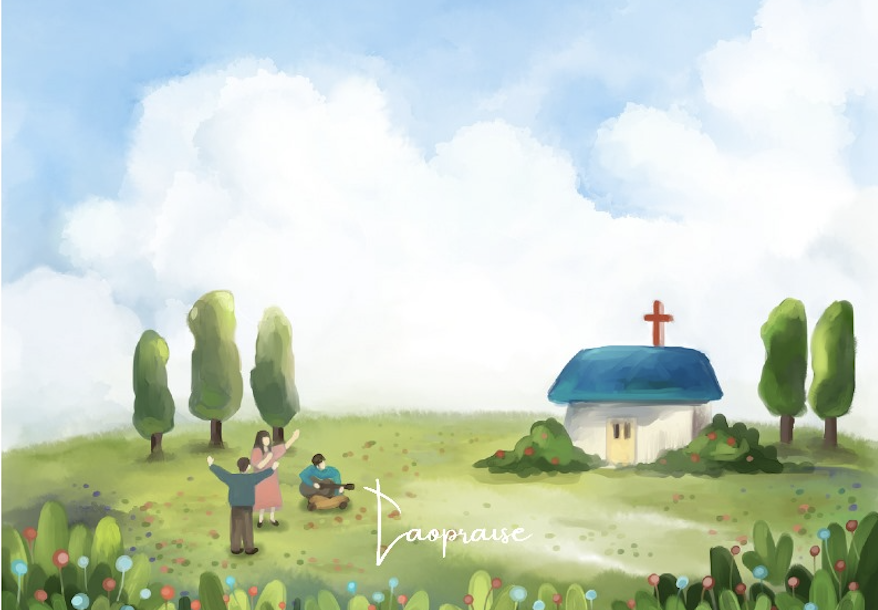
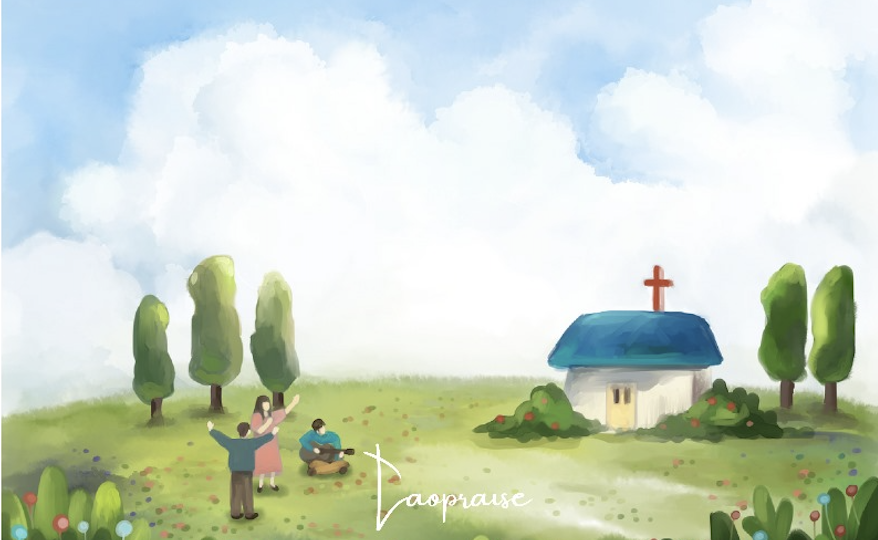
feat: Morning Glory hero — match mockup exactly, fix language switcher theme
- Hero: 100vh + object-cover center 65%, overlay from mockup
- Content: clamp fonts, exact padding/gap from mockup
- Search: frosted glass, blur(16px), shadow from mockup
- Categories: border #E0EEFA, 34px icons, shadow from mockup
- LanguageSwitcher: frosted white pill + sky-blue gradient active state
- Remove scroll indicator
- Crop watermark from Background.jpg

diff --git a/app/[locale]/page.tsx b/app/[locale]/page.tsx
@@ -10,12 +10,12 @@ import type { Song, Category } from '@/lib/supabase/types'
 type SongRow = Song & { categories: Category | null }
 
 const CAT_ITEMS = [
-  { grad: 'from-amber-400 to-orange-500',   shadow: 'shadow-orange-400/25', icon: '🙏' },
-  { grad: 'from-emerald-400 to-teal-500',   shadow: 'shadow-teal-400/25',   icon: '🎶' },
-  { grad: 'from-sky-400 to-blue-500',       shadow: 'shadow-blue-400/25',   icon: '⭐' },
-  { grad: 'from-violet-400 to-purple-600',  shadow: 'shadow-purple-400/25', icon: '💧' },
-  { grad: 'from-rose-400 to-pink-600',      shadow: 'shadow-rose-400/25',   icon: '🕊️' },
-  { grad: 'from-lime-400 to-green-500',     shadow: 'shadow-green-400/25',  icon: '🌿' },
+  { grad: 'from-[#F59E0B] to-[#F97316]', shadow: '0 2px 8px rgba(249,115,22,0.25)', icon: '🙏' },
+  { grad: 'from-[#34D399] to-[#0D9488]', shadow: '0 2px 8px rgba(13,148,136,0.25)',  icon: '🎶' },
+  { grad: 'from-[#38BDF8] to-[#3B82F6]', shadow: '0 2px 8px rgba(59,130,246,0.25)', icon: '⭐' },
+  { grad: 'from-[#A78BFA] to-[#7C3AED]', shadow: '0 2px 8px rgba(124,58,237,0.25)', icon: '💧' },
+  { grad: 'from-[#FB7185] to-[#E11D48]', shadow: '0 2px 8px rgba(225,29,72,0.25)',  icon: '🕊️' },
+  { grad: 'from-[#34D399] to-[#16A34A]', shadow: '0 2px 8px rgba(22,163,74,0.25)',  icon: '🌿' },
 ]
 
 export default async function HomePage({
@@ -43,8 +43,7 @@ export default async function HomePage({
     )
   }
 
-  const { data: songs } = await songsQuery
-
+  const { data: songs }      = await songsQuery
   const { data: categories } = await supabase
     .from('categories')
     .select('*, songs(count)')
@@ -54,34 +53,35 @@ export default async function HomePage({
   return (
     <div className="min-h-screen bg-[#F8FAFB]">
 
-      {/* ── HERO: Morning Glory ── */}
-      <div className="relative h-screen overflow-hidden">
+      {/* ── HERO ── */}
+      <div className="relative overflow-hidden">
         <Image
           src="/images/Background.jpg"
           alt="Laopraise"
-          fill
+          width={878}
+          height={540}
           sizes="100vw"
-          className="object-cover"
-          style={{ objectPosition: 'center 65%' }}
+          className="w-full h-auto block"
           priority
         />
-        <div className="absolute inset-0" style={{background:'linear-gradient(to bottom,rgba(255,255,255,0.08) 0%,transparent 20%,transparent 87%,rgba(248,252,255,0.55) 94%,#F8FAFB 100%)'}} />
+        <div className="absolute inset-0" style={{ background: 'linear-gradient(to bottom,rgba(255,255,255,0.08) 0%,transparent 20%,transparent 87%,rgba(248,252,255,0.55) 94%,#F8FAFB 100%)' }} />
 
         {/* NAV */}
         <nav className="absolute inset-x-0 top-0 z-20 flex items-center justify-between px-5 py-4">
           <div className="flex items-center gap-2.5">
-            <div className="w-10 h-10 rounded-xl bg-gradient-to-br from-sky-400 to-blue-500 flex items-center justify-center shadow-lg shadow-sky-400/35">
-              <span className="text-white text-lg">🎵</span>
+            <div className="w-[38px] h-[38px] rounded-xl bg-gradient-to-br from-[#38BDF8] to-[#0EA5E9] flex items-center justify-center text-[17px]" style={{ boxShadow: '0 2px 12px rgba(14,165,233,0.35)' }}>
+              🎵
             </div>
-            <span className="font-bold text-sky-950 text-lg tracking-tight" style={{ textShadow: '0 1px 6px rgba(255,255,255,0.9)' }}>
+            <span className="font-bold text-[#0F2845] text-[18px]" style={{ fontFamily: 'var(--font-noto-lao), sans-serif', textShadow: '0 1px 6px rgba(255,255,255,0.8)' }}>
               Laopraise
             </span>
           </div>
-          <div className="flex items-center gap-3">
+          <div className="flex items-center gap-2.5">
             <LanguageSwitcher currentLocale={locale} />
             <Link
               href={`/${locale}/auth/login`}
-              className="px-4 py-2 rounded-2xl bg-gradient-to-r from-sky-400 to-blue-500 text-white text-sm font-semibold shadow-md shadow-sky-400/30 hover:shadow-sky-400/50 transition-shadow"
+              className="px-[18px] py-[9px] rounded-[20px] bg-gradient-to-r from-[#38BDF8] to-[#0EA5E9] text-white text-[13px] font-semibold"
+              style={{ boxShadow: '0 2px 10px rgba(14,165,233,0.3)' }}
             >
               ເຂົ້າສູ່ລະບົບ
             </Link>
@@ -89,104 +89,97 @@ export default async function HomePage({
         </nav>
 
         {/* CENTER CONTENT */}
-        <div className="absolute inset-0 flex flex-col items-center justify-center px-5 text-center gap-6 pb-16">
-          <div className="space-y-3">
-            <p className="text-xs tracking-[0.18em] text-sky-500 font-semibold uppercase">
+        <div className="absolute inset-0 flex flex-col items-center justify-center text-center px-6" style={{ paddingTop: 70, paddingBottom: 90, gap: 22 }}>
+          <div className="flex flex-col" style={{ gap: 10 }}>
+            <p style={{ fontSize: 11, letterSpacing: '0.18em', color: '#0EA5E9', fontFamily: 'sans-serif', textTransform: 'uppercase', fontWeight: 600 }}>
               Gospel Song Library
             </p>
-            <h1
-              className="text-4xl sm:text-5xl font-bold text-sky-950 tracking-tight leading-tight"
-              style={{ fontFamily: 'var(--font-noto-lao), sans-serif', textShadow: '0 2px 12px rgba(255,255,255,0.9)' }}
-            >
+            <h1 style={{ fontFamily: 'var(--font-noto-lao), sans-serif', fontSize: 'clamp(30px,6vw,52px)', fontWeight: 700, color: '#0F2845', margin: 0, letterSpacing: '-0.5px', lineHeight: 1.1, textShadow: '0 2px 12px rgba(255,255,255,0.9)' }}>
               {t('hero_title')}
             </h1>
-            <p className="text-sky-900/50 text-sm sm:text-base italic max-w-xs mx-auto">
-              &ldquo;I will sing of you among the peoples.&rdquo; — Ps 108:3
+            <p style={{ color: 'rgba(15,40,69,0.55)', fontSize: 'clamp(13px,2vw,16px)', margin: 0, fontStyle: 'italic' }}>
+              &ldquo;I will sing of you among the peoples.&rdquo; &mdash; Ps 108:3
             </p>
           </div>
 
           {/* Search */}
-          <form method="GET" className="w-full max-w-md">
-            <div className="relative">
-              <span className="absolute left-5 top-1/2 -translate-y-1/2 text-sky-300 text-base pointer-events-none">🔍</span>
-              <input
-                name="q"
-                defaultValue={query}
-                placeholder={t('search_placeholder')}
-                className="w-full pl-12 pr-5 py-4 rounded-3xl bg-white/82 backdrop-blur-xl border-[1.5px] border-sky-200/70 text-sky-950 placeholder:text-sky-400/60 text-sm shadow-xl shadow-sky-200/40 focus:outline-none focus:ring-2 focus:ring-sky-400/30 focus:border-sky-400"
-              />
-            </div>
+          <form method="GET" style={{ position: 'relative', width: '100%', maxWidth: 460 }}>
+            <span style={{ position: 'absolute', left: 18, top: '50%', transform: 'translateY(-50%)', color: '#93C5FD', fontSize: 16, pointerEvents: 'none' }}>🔍</span>
+            <input
+              name="q"
+              defaultValue={query}
+              placeholder={t('search_placeholder')}
+              style={{ width: '100%', padding: '16px 20px 16px 50px', borderRadius: 28, border: '1.5px solid rgba(186,214,232,0.7)', background: 'rgba(255,255,255,0.82)', backdropFilter: 'blur(16px)', fontSize: 14, outline: 'none', fontFamily: 'var(--font-noto-lao), sans-serif', color: '#0F2845', boxSizing: 'border-box', boxShadow: '0 8px 32px rgba(14,165,233,0.12),0 2px 8px rgba(0,0,0,0.04)' }}
+            />
           </form>
         </div>
 
-        {/* Scroll indicator */}
-        <div className="absolute bottom-6 inset-x-0 flex justify-center animate-bounce">
-          <div className="w-5 h-8 rounded-full border-2 border-sky-400/35 flex items-start justify-center pt-1.5">
-            <div className="w-1 h-2.5 rounded-full bg-sky-400/45" />
-          </div>
-        </div>
       </div>
 
       {/* ── CONTENT ── */}
-      <div className="max-w-2xl mx-auto px-4 py-10 space-y-10">
+      <div style={{ background: '#F8FAFB', minHeight: '60vh' }}>
+        <div className="mx-auto px-5" style={{ maxWidth: 720, paddingTop: 32, paddingBottom: 80 }}>
 
-        {/* Categories */}
-        {!query && categories && categories.length > 0 && (
-          <section>
-            <div className="flex items-center justify-between mb-4">
-              <h2 className="text-base font-bold text-sky-950">{t('section_categories')}</h2>
-              <Link href={`/${locale}/categories`} className="text-sm text-sky-500 font-semibold hover:text-sky-700">
-                {t('see_all')} →
-              </Link>
-            </div>
-            <div className="flex gap-3 overflow-x-auto pb-2 -mx-4 px-4" style={{ scrollbarWidth: 'none' }}>
-              {categories.map((cat, i) => {
-                const item = CAT_ITEMS[i % CAT_ITEMS.length]
-                return (
-                  <Link
-                    key={cat.id}
-                    href={`/${locale}/categories?cat=${cat.id}`}
-                    className="flex-shrink-0 rounded-2xl p-4 bg-white border-[1.5px] border-sky-100 min-w-[130px] hover:border-sky-300 hover:shadow-lg hover:shadow-sky-200/40 transition-all active:scale-95"
-                  >
-                    <div className={`w-8 h-8 rounded-xl bg-gradient-to-br ${item.grad} flex items-center justify-center text-sm mb-3 shadow-md ${item.shadow}`}>
-                      {item.icon}
-                    </div>
-                    <p className="font-semibold text-sky-950 text-sm leading-snug">
-                      {(cat.name as Record<string, string>)[locale] || (cat.name as Record<string, string>)['lo']}
-                    </p>
-                    <p className="text-sky-400 text-xs mt-1">
-                      {(cat as { songs?: { count: number }[] }).songs?.[0]?.count ?? 0} ເພງ
-                    </p>
-                  </Link>
-                )
-              })}
-            </div>
-          </section>
-        )}
-
-        {/* Songs */}
-        <section>
-          <h2 className="text-base font-bold text-sky-950 mb-4">
-            {query ? `🔍 "${query}"` : t('section_latest')}
-          </h2>
-          {songs && songs.length > 0 ? (
-            <div className="flex flex-col gap-2.5">
-              {songs.map(song => (
-                <SongCard key={song.id} song={song as unknown as SongRow} locale={locale} />
-              ))}
-            </div>
-          ) : (
-            <div className="text-center py-16">
-              <p className="text-4xl mb-3">🎵</p>
-              <p className="text-sky-400 text-sm">
-                {query ? 'ບໍ່ພົບເພງ / Song not found' : 'ຍັງບໍ່ມີເພງ'}
-              </p>
-            </div>
+          {/* Categories */}
+          {!query && categories && categories.length > 0 && (
+            <section style={{ marginBottom: 36 }}>
+              <div className="flex items-center justify-between" style={{ marginBottom: 16 }}>
+                <h2 style={{ fontFamily: 'var(--font-noto-lao), sans-serif', fontSize: 16, fontWeight: 700, color: '#0F2845', margin: 0 }}>
+                  {t('section_categories')}
+                </h2>
+                <Link href={`/${locale}/categories`} style={{ fontSize: 13, color: '#0EA5E9', fontWeight: 600, fontFamily: 'var(--font-noto-lao), sans-serif', textDecoration: 'none' }}>
+                  {t('see_all')} →
+                </Link>
+              </div>
+              <div className="flex overflow-x-auto pb-1.5 -mx-5 px-5" style={{ gap: 10, scrollbarWidth: 'none' }}>
+                {categories.map((cat, i) => {
+                  const item = CAT_ITEMS[i % CAT_ITEMS.length]
+                  return (
+                    <Link
+                      key={cat.id}
+                      href={`/${locale}/categories?cat=${cat.id}`}
+                      style={{ flexShrink: 0, borderRadius: 16, padding: '14px 16px', background: 'white', border: '1.5px solid #E0EEFA', minWidth: 130, textDecoration: 'none', display: 'block', boxShadow: '0 2px 10px rgba(14,165,233,0.07)', transition: 'all 0.18s' }}
+                    >
+                      <div className={`bg-gradient-to-br ${item.grad} flex items-center justify-center text-base`} style={{ width: 34, height: 34, borderRadius: 10, marginBottom: 10, boxShadow: item.shadow }}>
+                        {item.icon}
+                      </div>
+                      <p style={{ fontWeight: 600, fontSize: 13, fontFamily: 'var(--font-noto-lao), sans-serif', margin: '0 0 4px', color: '#0F2845' }}>
+                        {(cat.name as Record<string, string>)[locale] || (cat.name as Record<string, string>)['lo']}
+                      </p>
+                      <p style={{ fontSize: 11, color: '#64A4C4', margin: 0 }}>
+                        {(cat as { songs?: { count: number }[] }).songs?.[0]?.count ?? 0} ເພງ
+                      </p>
+                    </Link>
+                  )
+                })}
+              </div>
+            </section>
           )}
-        </section>
 
-        <div className="text-center pt-6 border-t border-sky-100">
-          <p className="text-sky-300 text-xs tracking-widest uppercase">Laopraise Gospel Library</p>
+          {/* Songs */}
+          <section>
+            <h2 style={{ fontFamily: 'var(--font-noto-lao), sans-serif', fontSize: 16, fontWeight: 700, color: '#0F2845', marginBottom: 16 }}>
+              {query ? `🔍 "${query}"` : t('section_latest')}
+            </h2>
+            {songs && songs.length > 0 ? (
+              <div className="flex flex-col" style={{ gap: 10 }}>
+                {songs.map(song => (
+                  <SongCard key={song.id} song={song as unknown as SongRow} locale={locale} />
+                ))}
+              </div>
+            ) : (
+              <div className="text-center" style={{ paddingTop: 64, paddingBottom: 64 }}>
+                <p style={{ fontSize: 36, marginBottom: 12 }}>🎵</p>
+                <p style={{ color: '#64A4C4', fontSize: 13, fontFamily: 'var(--font-noto-lao), sans-serif' }}>
+                  {query ? 'ບໍ່ພົບເພງ / Song not found' : 'ຍັງບໍ່ມີເພງ'}
+                </p>
+              </div>
+            )}
+          </section>
+
+          <div className="text-center" style={{ paddingTop: 24, borderTop: '1px solid #E0EEFA' }}>
+            <p style={{ color: '#93C5FD', fontSize: 11, letterSpacing: '0.1em', textTransform: 'uppercase' }}>Laopraise Gospel Library</p>
+          </div>
         </div>
       </div>
     </div>

diff --git a/components/LanguageSwitcher.tsx b/components/LanguageSwitcher.tsx
@@ -16,16 +16,21 @@ export function LanguageSwitcher({ currentLocale }: { currentLocale: AppLocale }
   }
 
   return (
-    <div className="flex gap-1">
+    <div style={{ display: 'flex', background: 'rgba(255,255,255,0.65)', border: '1px solid rgba(186,214,232,0.7)', borderRadius: 20, padding: 3, gap: 1, backdropFilter: 'blur(10px)' }}>
       {locales.map(l => (
         <button
           key={l}
           onClick={() => switchTo(l)}
-          className={`px-2 py-1 rounded-lg text-xs font-medium transition-colors ${
-            l === currentLocale
-              ? 'bg-amber-900 text-white'
-              : 'text-amber-700 hover:bg-amber-100'
-          }`}
+          style={l === currentLocale ? {
+            padding: '5px 11px', borderRadius: 16, fontSize: 11, fontWeight: 600,
+            border: 'none', cursor: 'pointer', fontFamily: 'sans-serif', color: 'white',
+            background: 'linear-gradient(135deg,#38BDF8,#0EA5E9)',
+            boxShadow: '0 1px 4px rgba(14,165,233,0.3)',
+          } : {
+            padding: '5px 11px', borderRadius: 16, fontSize: 11, fontWeight: 500,
+            border: 'none', cursor: 'pointer', fontFamily: 'sans-serif',
+            background: 'transparent', color: '#4A7A9B',
+          }}
         >
           {LABELS[l]}
         </button>